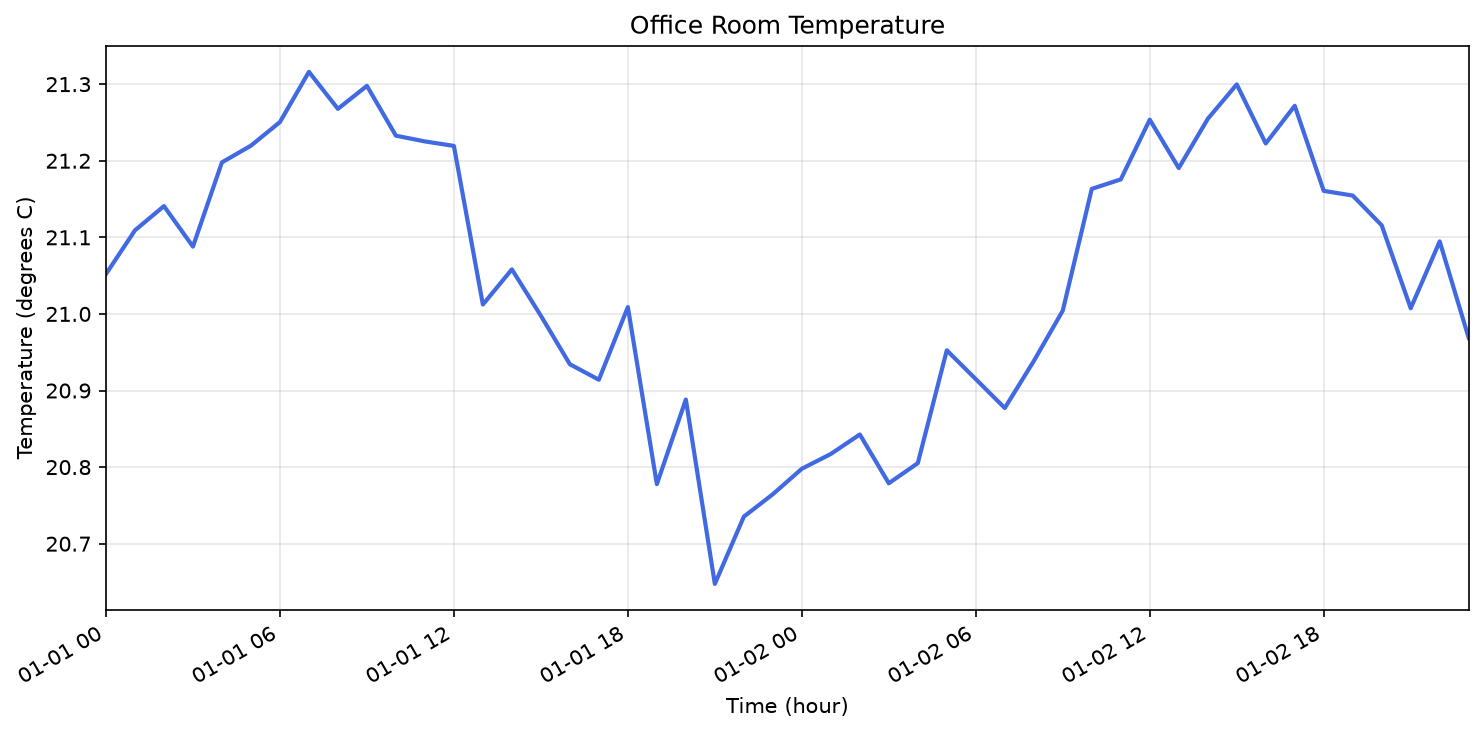
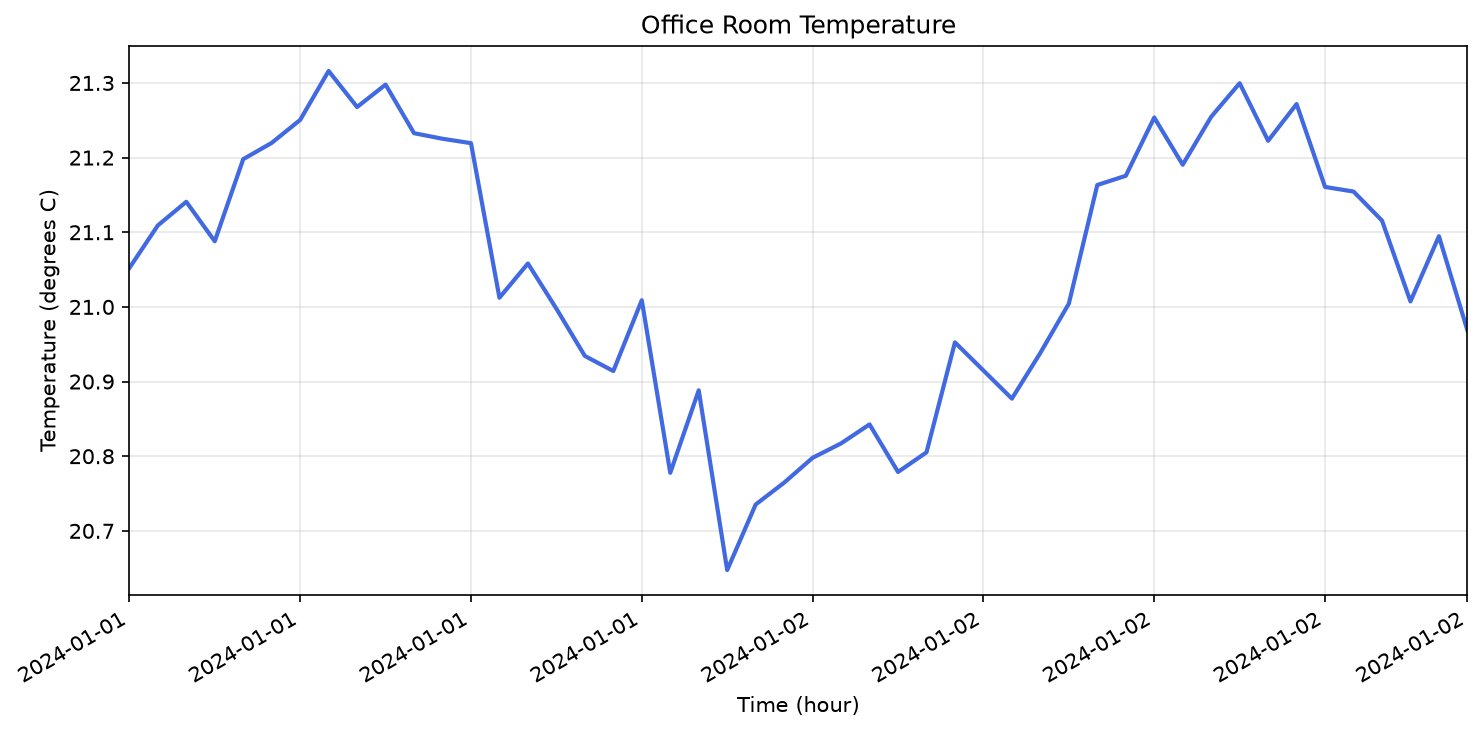
First Extraction UI
Includes the overlay image generation. Creates a table with the extracted data and you can download it as CSV. And in the generate charts, I made the images have end of plot x axis values displayed.

diff --git a/app.py b/app.py
@@ -1,6 +1,11 @@
 import datetime
+import os
+import tempfile
 
+import cv2
 import streamlit as st
+
+from src.extractor import extract_chart_data
 
 
 st.set_page_config(
@@ -76,6 +81,7 @@ else:
         st.session_state["uploaded_file_id"] = current_file_id
         st.session_state["metadata"] = {}
         st.session_state["metadata_confirmed"] = False
+        st.session_state["extraction"] = None
 
     st.success(f"Uploaded file: {uploaded_file.name}")
 
@@ -493,6 +499,7 @@ else:
                 }
 
                 st.session_state["metadata_confirmed"] = True
+                st.session_state["extraction"] = None
 
                 st.rerun()
 
@@ -613,5 +620,123 @@ else:
                 st.session_state[
                     "metadata_confirmed"
                 ] = False
+                st.session_state["extraction"] = None
                 st.rerun()
                 
+
+metadata_confirmed = st.session_state.get(
+    "metadata_confirmed",
+    False
+)
+
+metadata = st.session_state.get(
+    "metadata",
+    {}
+)
+
+if uploaded_file is not None and metadata_confirmed:
+    st.divider()
+    st.subheader("Extract data")
+
+    st.write(
+        "Run the extraction using the uploaded graph and confirmed metadata."
+    )
+
+    if st.button("Extract data"):
+        temporary_path = None
+
+        try:
+            file_suffix = os.path.splitext(
+                uploaded_file.name
+            )[1]
+
+            with tempfile.NamedTemporaryFile(
+                delete=False,
+                suffix=file_suffix
+            ) as temporary_file:
+                temporary_file.write(
+                    uploaded_file.getvalue()
+                )
+                temporary_path = temporary_file.name
+
+            extraction_result = extract_chart_data(
+                temporary_path,
+                metadata
+            )
+
+            if extraction_result.success:
+                annotated_image_rgb = cv2.cvtColor(
+                    extraction_result.annotated_image,
+                    cv2.COLOR_BGR2RGB
+                )
+
+                st.session_state["extraction"] = {
+                    "success": True,
+                    "annotated_image": annotated_image_rgb,
+                    "observations": (
+                        extraction_result.observations
+                    ),
+                    "warnings": (
+                        extraction_result.warnings
+                    ),
+                    "diagnostics": (
+                        extraction_result.diagnostics
+                    )
+                }
+
+            else:
+                st.session_state["extraction"] = {
+                    "success": False,
+                    "warnings": (
+                        extraction_result.warnings
+                    )
+                }
+
+        finally:
+            if temporary_path is not None:
+                os.unlink(temporary_path)
+
+    extraction = st.session_state.get(
+        "extraction"
+    )
+
+    if extraction is not None:
+        if extraction["success"]:
+            st.success(
+                "Extraction completed successfully."
+            )
+
+            if extraction["warnings"]:
+                for warning in extraction["warnings"]:
+                    st.warning(warning)
+
+            st.image(
+                extraction["annotated_image"],
+                caption=(
+                    "Detected line and plot boundaries"
+                ),
+                width="stretch"
+            )
+
+            st.subheader(
+                "Extracted observations"
+            )
+
+            st.dataframe(
+                extraction["observations"],
+                width="stretch",
+                hide_index=True
+            )
+
+            st.caption(
+                f"Extracted {len(extraction['observations'])} "
+                "pixel-level observations."
+            )
+
+        else:
+            st.error(
+                "Extraction could not be completed."
+            )
+
+            for warning in extraction["warnings"]:
+                st.warning(warning)

diff --git a/scripts/generate_test_charts.py b/scripts/generate_test_charts.py
@@ -7,6 +7,7 @@ import matplotlib
 
 matplotlib.use("Agg")
 
+import matplotlib.dates as mdates
 import matplotlib.pyplot as plt
 
 
@@ -89,14 +90,11 @@ def calculate_axis_limits(timestamps, values):
     y_min = float(np.min(values))
     y_max = float(np.max(values))
 
-    # The generated charts use the first and last data timestamps
-    # as the effective x-axis limits.
     if x_min == x_max:
         if isinstance(x_min, pd.Timestamp):
             x_margin = pd.Timedelta(days=1)
         else:
             x_margin = 1
-
     else:
         if isinstance(x_min, pd.Timestamp):
             x_margin = pd.Timedelta(0)
@@ -114,6 +112,41 @@ def calculate_axis_limits(timestamps, values):
         y_min - y_margin,
         y_max + y_margin
     )
+
+
+def add_endpoint_ticks(axis, timestamps):
+    """Ensure the first and last time values are visibly labeled."""
+
+    timestamp_series = pd.Series(timestamps)
+
+    if pd.api.types.is_numeric_dtype(timestamp_series):
+        endpoint_ticks = np.array([
+            float(timestamp_series.iloc[0]),
+            float(timestamp_series.iloc[-1])
+        ])
+    else:
+        endpoint_ticks = mdates.date2num([
+            pd.Timestamp(
+                timestamp_series.iloc[0]
+            ).to_pydatetime(),
+            pd.Timestamp(
+                timestamp_series.iloc[-1]
+            ).to_pydatetime()
+        ])
+
+    existing_ticks = np.asarray(
+        axis.get_xticks(),
+        dtype=float
+    )
+
+    all_ticks = np.unique(
+        np.concatenate([
+            existing_ticks,
+            endpoint_ticks
+        ])
+    )
+
+    axis.set_xticks(all_ticks)
 
 
 def apply_axis_limits(axis, timestamps, values):
@@ -311,6 +344,11 @@ def save_chart(
         values
     )
 
+    add_endpoint_ticks(
+        axis,
+        timestamps
+    )
+
     figure.autofmt_xdate()
     figure.tight_layout()
 
@@ -361,6 +399,11 @@ def save_obscured_chart(
         axis,
         timestamps,
         values
+    )
+
+    add_endpoint_ticks(
+        axis,
+        timestamps
     )
 
     figure.autofmt_xdate()
